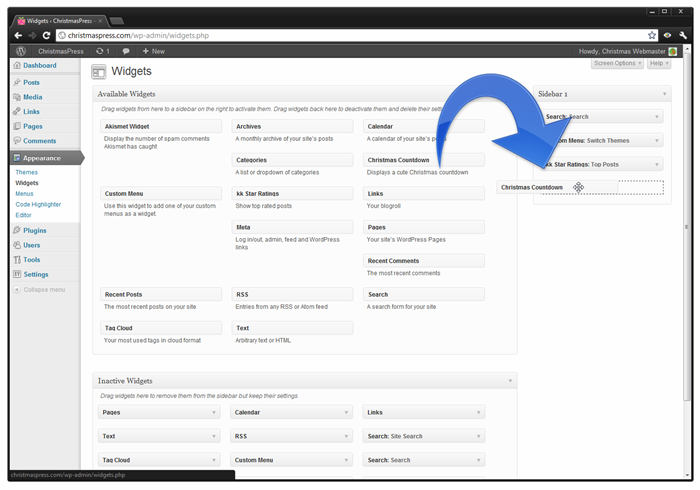
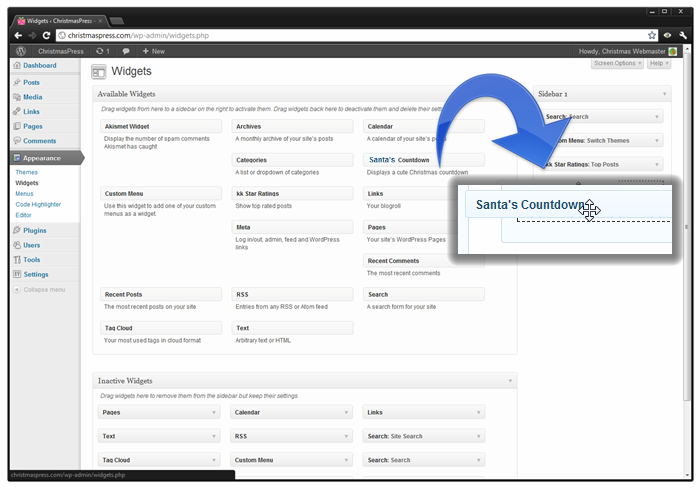
Updated to version 2
git-svn-id: https://plugins.svn.wordpress.org/santas-christmas-countdown/trunk@713025 b8457f37-d9ea-0310-8a92-e5e31aec5664

Changed region(s): [[0.63, 0.3367, 0.99, 0.551], [0.51, 0.3061, 0.57, 0.3367]]

diff --git a/xmascount.php b/xmascount.php
@@ -5,7 +5,7 @@ Plugin Name: Christmas Countdown Widget
 Plugin URI: http://christmaswebmaster.com/santa-claus-christmas-countdown-wordpress-plugin
 Description: Displays a cute Christmas countdown in your sidebar.
 Author: Monica Mays
-Version: 1.3
+Version: 2.0
 Author URI: http://christmaswebmaster.com/
 
 Christmas Countdown Widget is free software: you can redistribute it and/or modify
@@ -21,14 +21,46 @@ GNU General Public License for more details.
 You should have received a copy of the GNU General Public License
 along with Christmas Countdown Widget. If not, see <http://www.gnu.org/licenses/>.
 */
- 
 
-class xmascount extends WP_Widget
-{
-  function xmascount()
+//Adds Countdown Shortcodes
+
+function cw_CountDownShortcode_left() {  
+    return '<div style="float:left;padding-right:15px;"><div id="cw_countdown"><div class="cw_countdown-text">
+          <script type="text/javascript">
+          <!--
+          cw_axmascount();
+          //--></script></div></div></div>';  
+}  
+add_shortcode('countdown', 'cw_CountDownShortcode_left');
+
+function cw_CountDownShortcode_right() {  
+    return '<div style="float:right;padding-left:15px;"><div id="cw_countdown"><div class="cw_countdown-text">
+          <script type="text/javascript">
+          <!--
+          cw_axmascount();
+          //--></script></div></div></div>';  
+}  
+add_shortcode('countdown-right', 'cw_CountDownShortcode_right');
+
+
+//Enqueue Countdown Scripts and Styles
+
+function cw_santas_countdown_scripts() {
+  wp_enqueue_style( 'xmascount-styles', plugins_url( 'css/cw_xmascount-styles.css', __FILE__ ) );
+  wp_enqueue_script( 'xmascount-scripts', plugins_url( 'scripts/scriptfile.js', __FILE__ ) );
+}
+add_action( 'wp_enqueue_scripts', 'cw_santas_countdown_scripts' );
+
+
+
+
+//Extends Countdown Widget
+
+class cw_axmascount extends WP_Widget {
+  function cw_axmascount()
   {
-    $widget_ops = array('classname' => 'xmascount', 'description' => 'Displays a cute Christmas countdown' );
-    $this->WP_Widget('xmascount', 'Christmas Countdown', $widget_ops);
+    $widget_ops = array('classname' => 'cw_axmascount', 'description' => 'Drag this widget to your sidebar to display Santa\'s Christmas Countdown.' );
+    $this->WP_Widget('cw_axmascount', 'Santa\'s Countdown', $widget_ops);
   }
  
   function form($instance)
@@ -36,9 +68,7 @@ class xmascount extends WP_Widget
     $instance = wp_parse_args( (array) $instance, array( 'title' => '' ) );
     $title = $instance['title'];
 ?>
-
-  <p><label for="<?php echo $this->get_field_id('title'); ?>">Title: <input class="widefat" id="<?php echo $this->get_field_id('title'); ?>" name="<?php echo $this->get_field_name('title'); ?>" type="text" value="<?php echo attribute_escape($title); ?>" /></label></p>
-
+  <p><label for="<?php echo $this->get_field_id('title'); ?>">Title: <input class="widefat" id="<?php echo $this->get_field_id('title'); ?>" name="<?php echo $this->get_field_name('title'); ?>" type="text" value="<?php echo esc_attr($title); ?>" /></label></p>
 <?php
 }
   function update($new_instance, $old_instance)
@@ -59,54 +89,14 @@ class xmascount extends WP_Widget
       echo $before_title . $title . $after_title;;
  
 
-    echo "<div style=\"background-image: url(".plugins_url('img/santas-countdown-background.png', __FILE__)."); 
-     margin: 0 auto;
-     height:191px; 
-     width:180px; 
-     background-repeat: no-repeat;
-     background-size: 180px 191px;
-     text-align:center;\"><div style=\"font-weight:normal;
-     padding-left:37px; 
-     font-size:15px; 
-     line-height:110%;
-     padding-right: 0px; 
-     padding-top:123px; 
-     text-align:center;
-     font-family: comic sans ms;
-     color: #0099CC;\"><script language=\"javascript\" type=\"text/javascript\">
-     today = new Date();
-     thismon = today.getMonth();
-     thisday = today.getDate();
-     thisyr = today.getFullYear();
-if (thismon == 11 && thisday > 25)
-	{
-	thisyr = ++thisyr;
-	BigDay = new Date(\"December 25, \"+thisyr);
-	}
-else
-	{
-	BigDay = new Date(\"December 25, \"+thisyr);
-	}
-
-        msPerDay = 24 * 60 * 60 * 1000;
-        timeLeft = (BigDay.getTime() - today.getTime());
-        e_daysLeft = timeLeft / msPerDay;
-        daysLeft = Math.floor(e_daysLeft);
-        e_hrsLeft = (e_daysLeft - daysLeft) * 24;
-        hrsLeft = Math.floor(e_hrsLeft);
-        minsLeft = Math.floor((e_hrsLeft - hrsLeft) * 60);
-if (daysLeft <= 0 )
-{ 
-document.write(\"Merry<br>Christmas!\")
-}
-else 
-{ 
-document.write(\"\" + daysLeft + \" days<BR>til Christmas!\"); 
-}
-    </script></div></div>";
+    echo '<div id="cw_countdown"><div class="cw_countdown-text">
+          <script type="text/javascript">
+          <!--
+          cw_axmascount();
+          //--></script></div></div>';
  
     echo $after_widget;
   }
  
 }
-add_action( 'widgets_init', create_function('', 'return register_widget("xmascount");') );?>
+add_action( 'widgets_init', create_function('', 'return register_widget("cw_axmascount");') );
